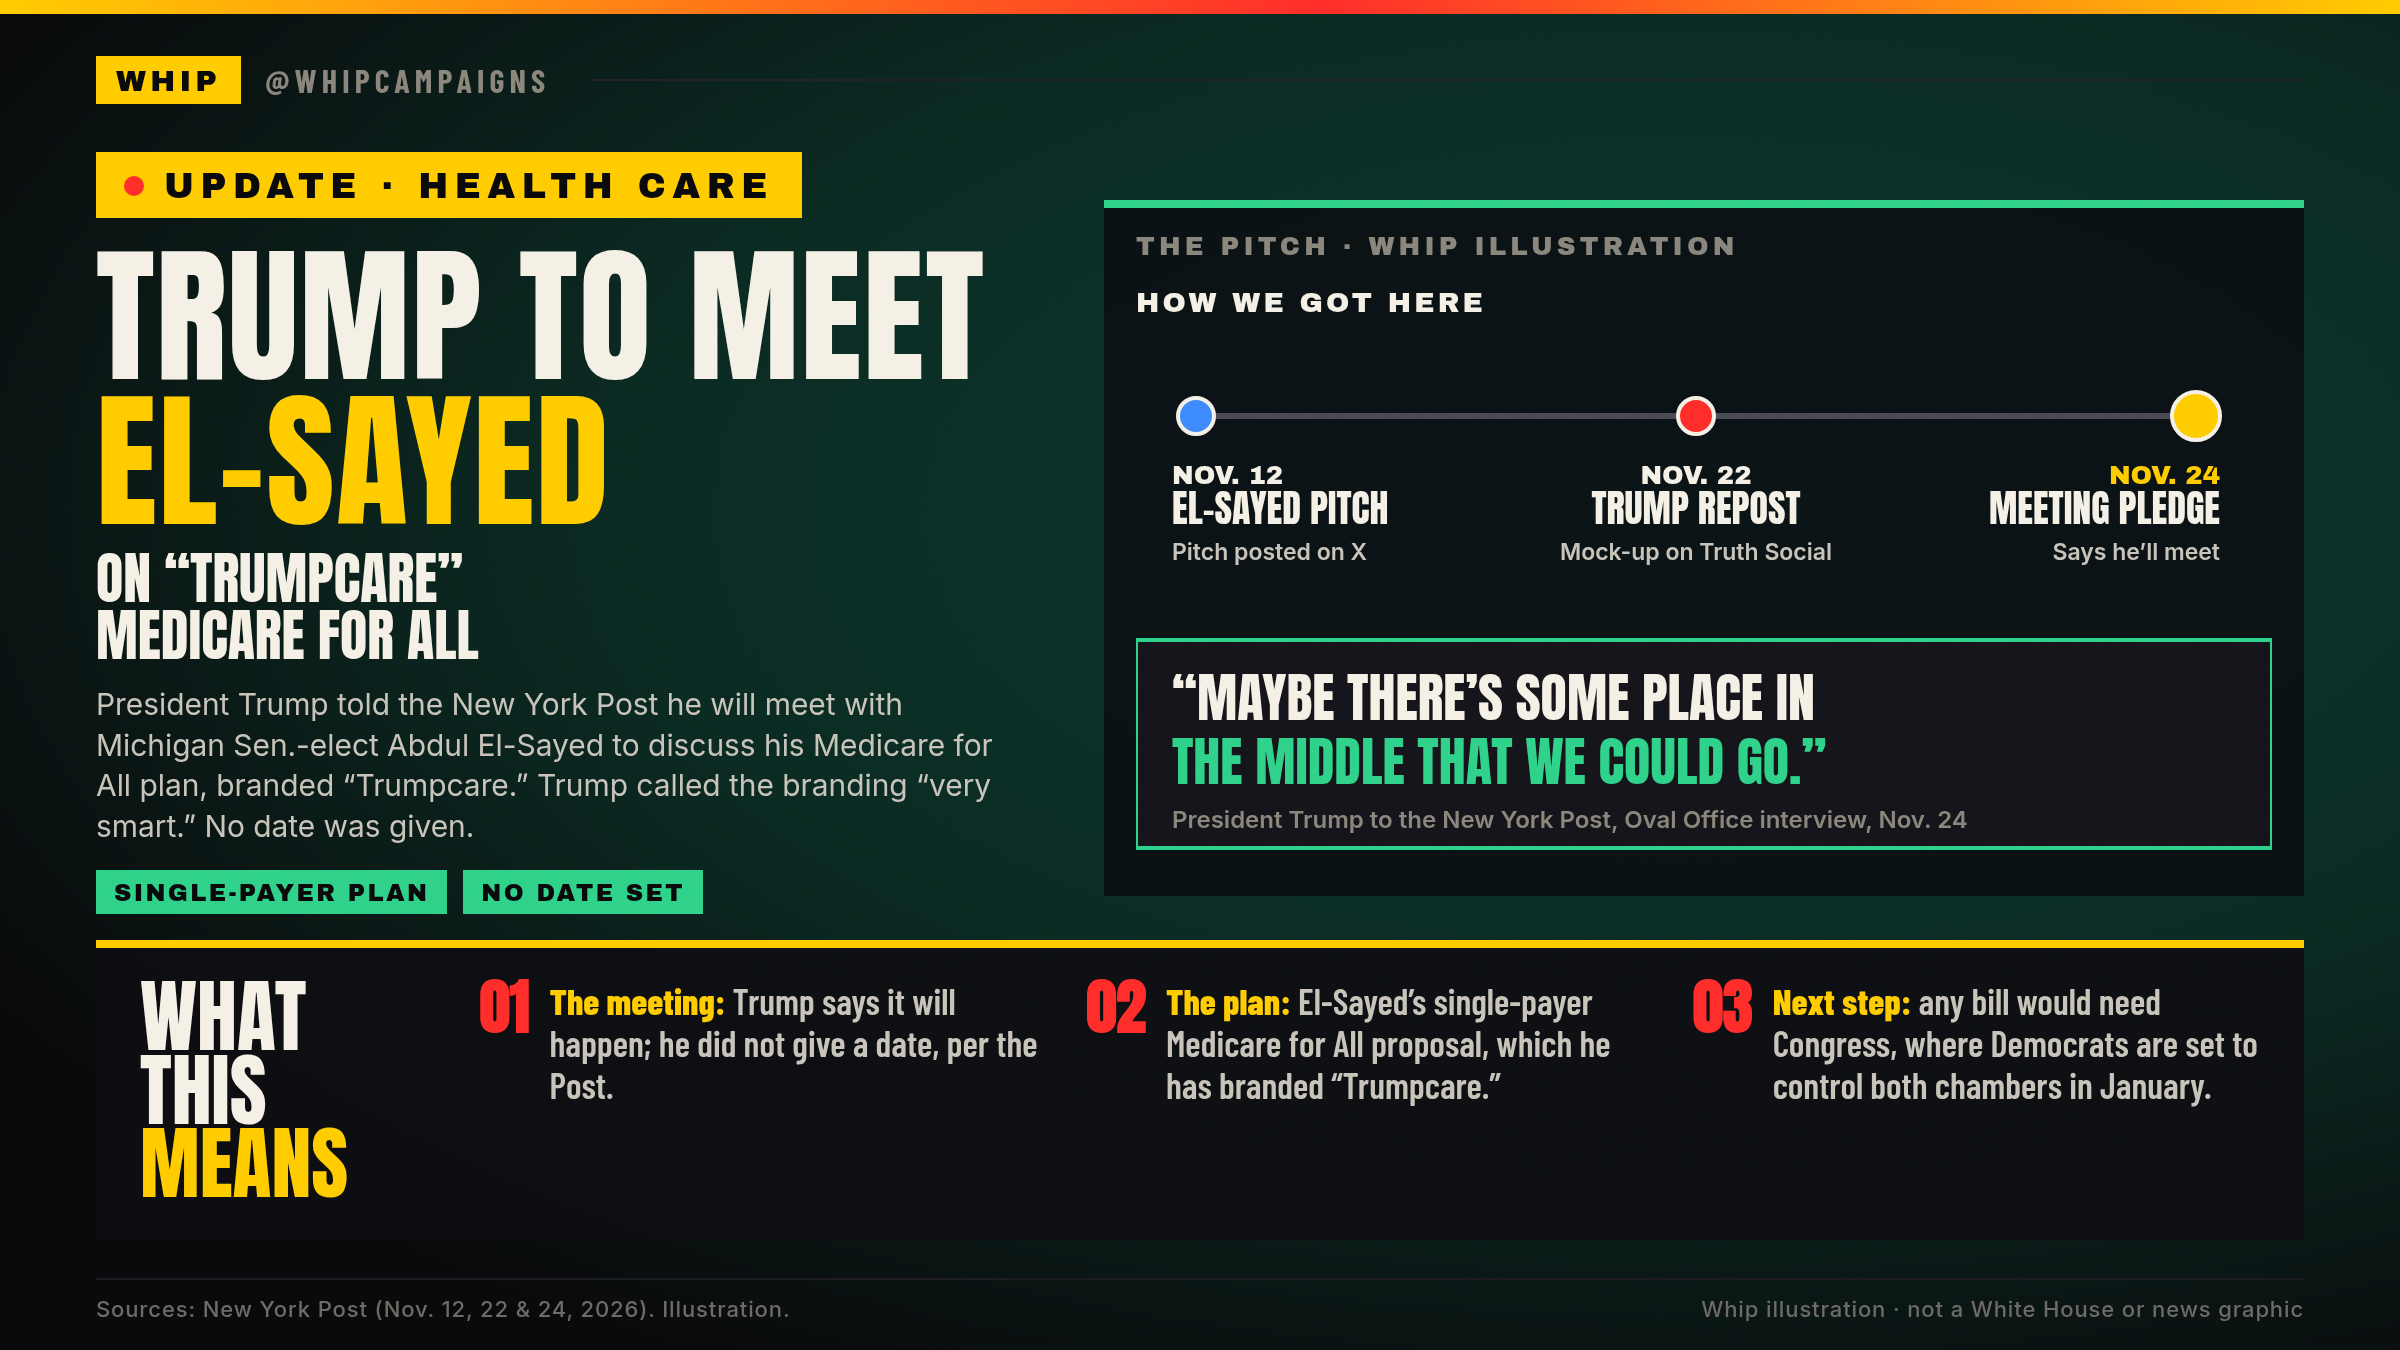
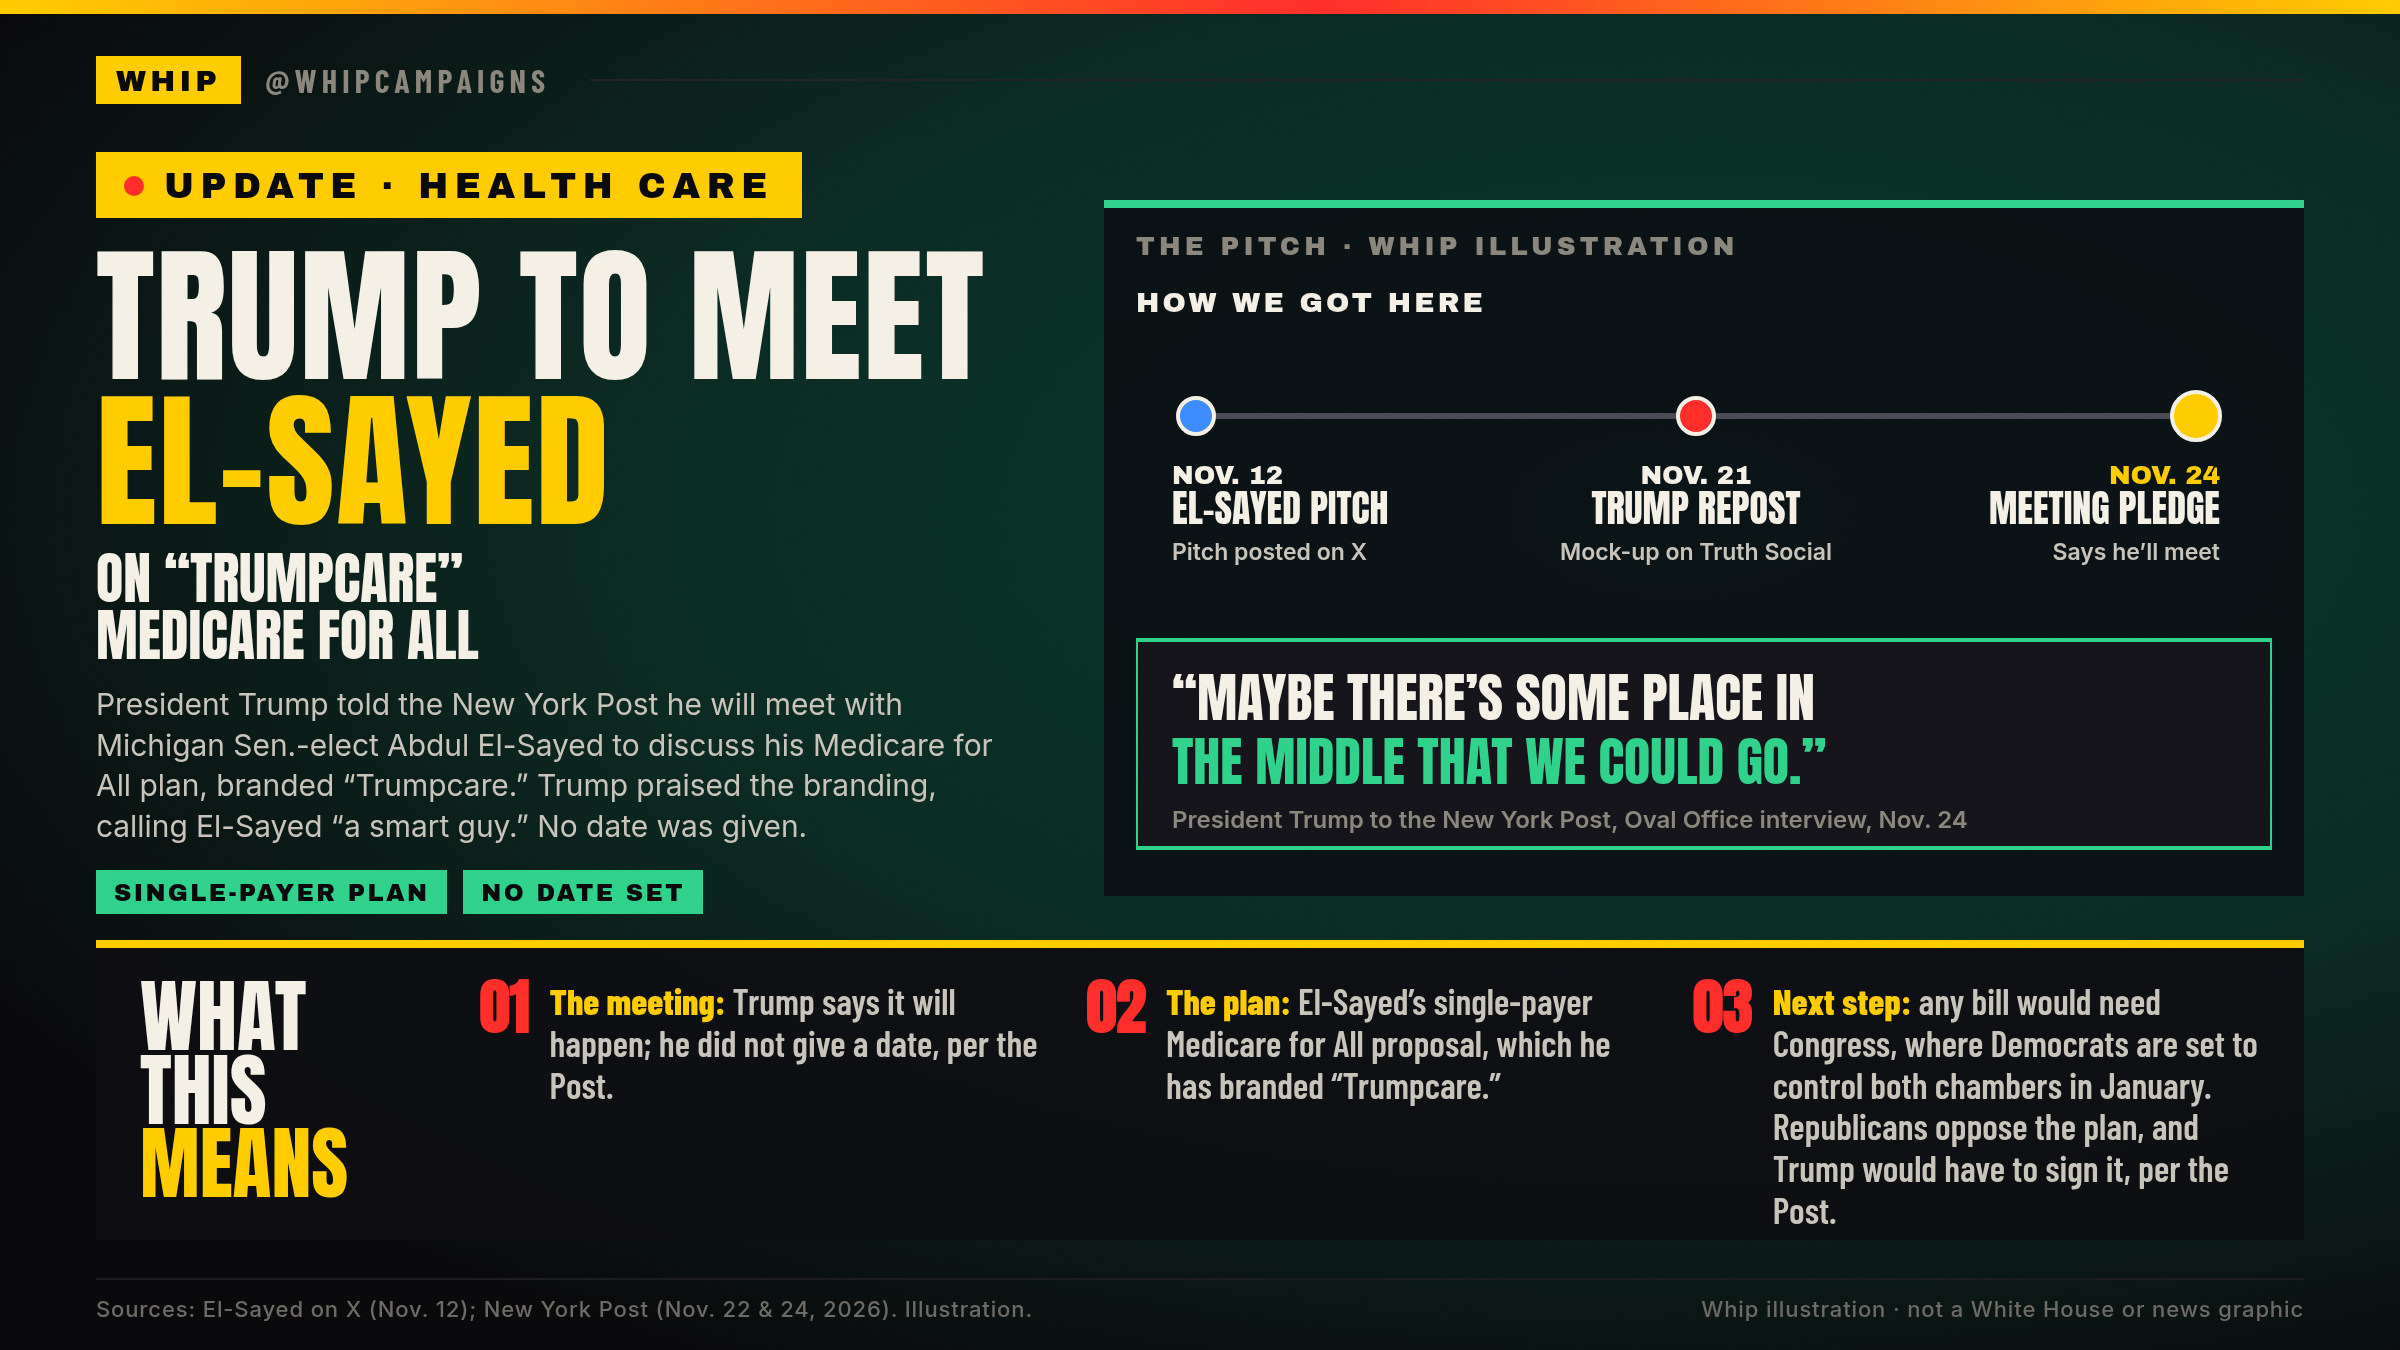
TrumpCare UPDATE card: Nov 21 repost, smart guy quote, GOP opposition, sources footer

Changed region(s): [[0.7188, 0.8089, 0.9375, 0.9022], [0.0312, 0.56, 0.4062, 0.6222], [0.0938, 0.9644, 0.4062, 0.9956]]

diff --git a/breaking/2026-11-24-trumpcare-elsayed-meeting/make_card.py b/breaking/2026-11-24-trumpcare-elsayed-meeting/make_card.py
@@ -13,7 +13,7 @@ GRN, YEL, RED, BLU, PAPER, MUTE = "#2fd28a", "#ffcc00", "#ff2d2a", "#3d8bff", "#
 p = []
 p.append(f'<text x="0" y="18" font-family="Archivo Black" font-size="14" letter-spacing="1.6" fill="{PAPER}">HOW WE GOT HERE</text>')
 steps = [("NOV. 12", "El-Sayed pitch", "Pitch posted on X", BLU),
-         ("NOV. 22", "Trump repost", "Mock-up on Truth Social", RED),
+         ("NOV. 21", "Trump repost", "Mock-up on Truth Social", RED),
          ("NOV. 24", "Meeting pledge", "Says he&rsquo;ll meet", YEL)]
 ty = 70
 p.append(f'<line x1="30" y1="{ty}" x2="530" y2="{ty}" stroke="#4a4a54" stroke-width="3"/>')
@@ -33,12 +33,12 @@ p.append(f'<text x="18" y="{qy+72}" font-family="Anton" font-size="27" fill="{GR
 p.append(f'<text x="18" y="{qy+94}" font-family="Inter" font-size="12" font-weight="600" fill="{MUTE}">President Trump to the New York Post, Oval Office interview, Nov. 24</text>')
 graphic = f'<svg xmlns="http://www.w3.org/2000/svg" width="{W}" height="{H}" viewBox="0 0 {W} {H}">{"".join(p)}</svg>'
 html = wrap(f"""
-<div class="footer"><span>Sources: New York Post (Nov. 12, 22 &amp; 24, 2026). Illustration.</span><span>Whip illustration &middot; not a White House or news graphic</span></div>
+<div class="footer"><span>Sources: El-Sayed on X (Nov. 12); New York Post (Nov. 22 &amp; 24, 2026). Illustration.</span><span>Whip illustration &middot; not a White House or news graphic</span></div>
 <div class="tag"><span class="dot"></span>UPDATE &middot; HEALTH CARE</div>
 <div class="left">
   <div class="h1">TRUMP TO MEET<br><span class="y">EL-SAYED</span></div>
   <div class="h2">ON &ldquo;TRUMPCARE&rdquo;<br>MEDICARE FOR ALL</div>
-  <div class="att">President Trump told the New York Post he will meet with Michigan Sen.-elect Abdul El-Sayed to discuss his Medicare for All plan, branded &ldquo;Trumpcare.&rdquo; Trump called the branding &ldquo;very smart.&rdquo; No date was given.</div>
+  <div class="att">President Trump told the New York Post he will meet with Michigan Sen.-elect Abdul El-Sayed to discuss his Medicare for All plan, branded &ldquo;Trumpcare.&rdquo; Trump praised the branding, calling El-Sayed &ldquo;a smart guy.&rdquo; No date was given.</div>
   <div class="chips"><span>Single-payer plan</span><span>No date set</span></div>
 </div>
 <div class="panel">
@@ -49,7 +49,7 @@ html = wrap(f"""
   <div class="wt">WHAT THIS<br><span class="y">MEANS</span></div>
   <div class="b"><div class="n">01</div><div><b>The meeting:</b> Trump says it will happen; he did not give a date, per the Post.</div></div>
   <div class="b"><div class="n">02</div><div><b>The plan:</b> El-Sayed&rsquo;s single-payer Medicare for All proposal, which he has branded &ldquo;Trumpcare.&rdquo;</div></div>
-  <div class="b"><div class="n">03</div><div><b>Next step:</b> any bill would need Congress, where Democrats are set to control both chambers in January.</div></div>
+  <div class="b"><div class="n">03</div><div><b>Next step:</b> any bill would need Congress, where Democrats are set to control both chambers in January. Republicans oppose the plan, and Trump would have to sign it, per the Post.</div></div>
 </div>
 """, """
 body{background:radial-gradient(ellipse at 70% 38%,#0a3a2e 0%,#0a2a22 45%,#09090b 82%)}
